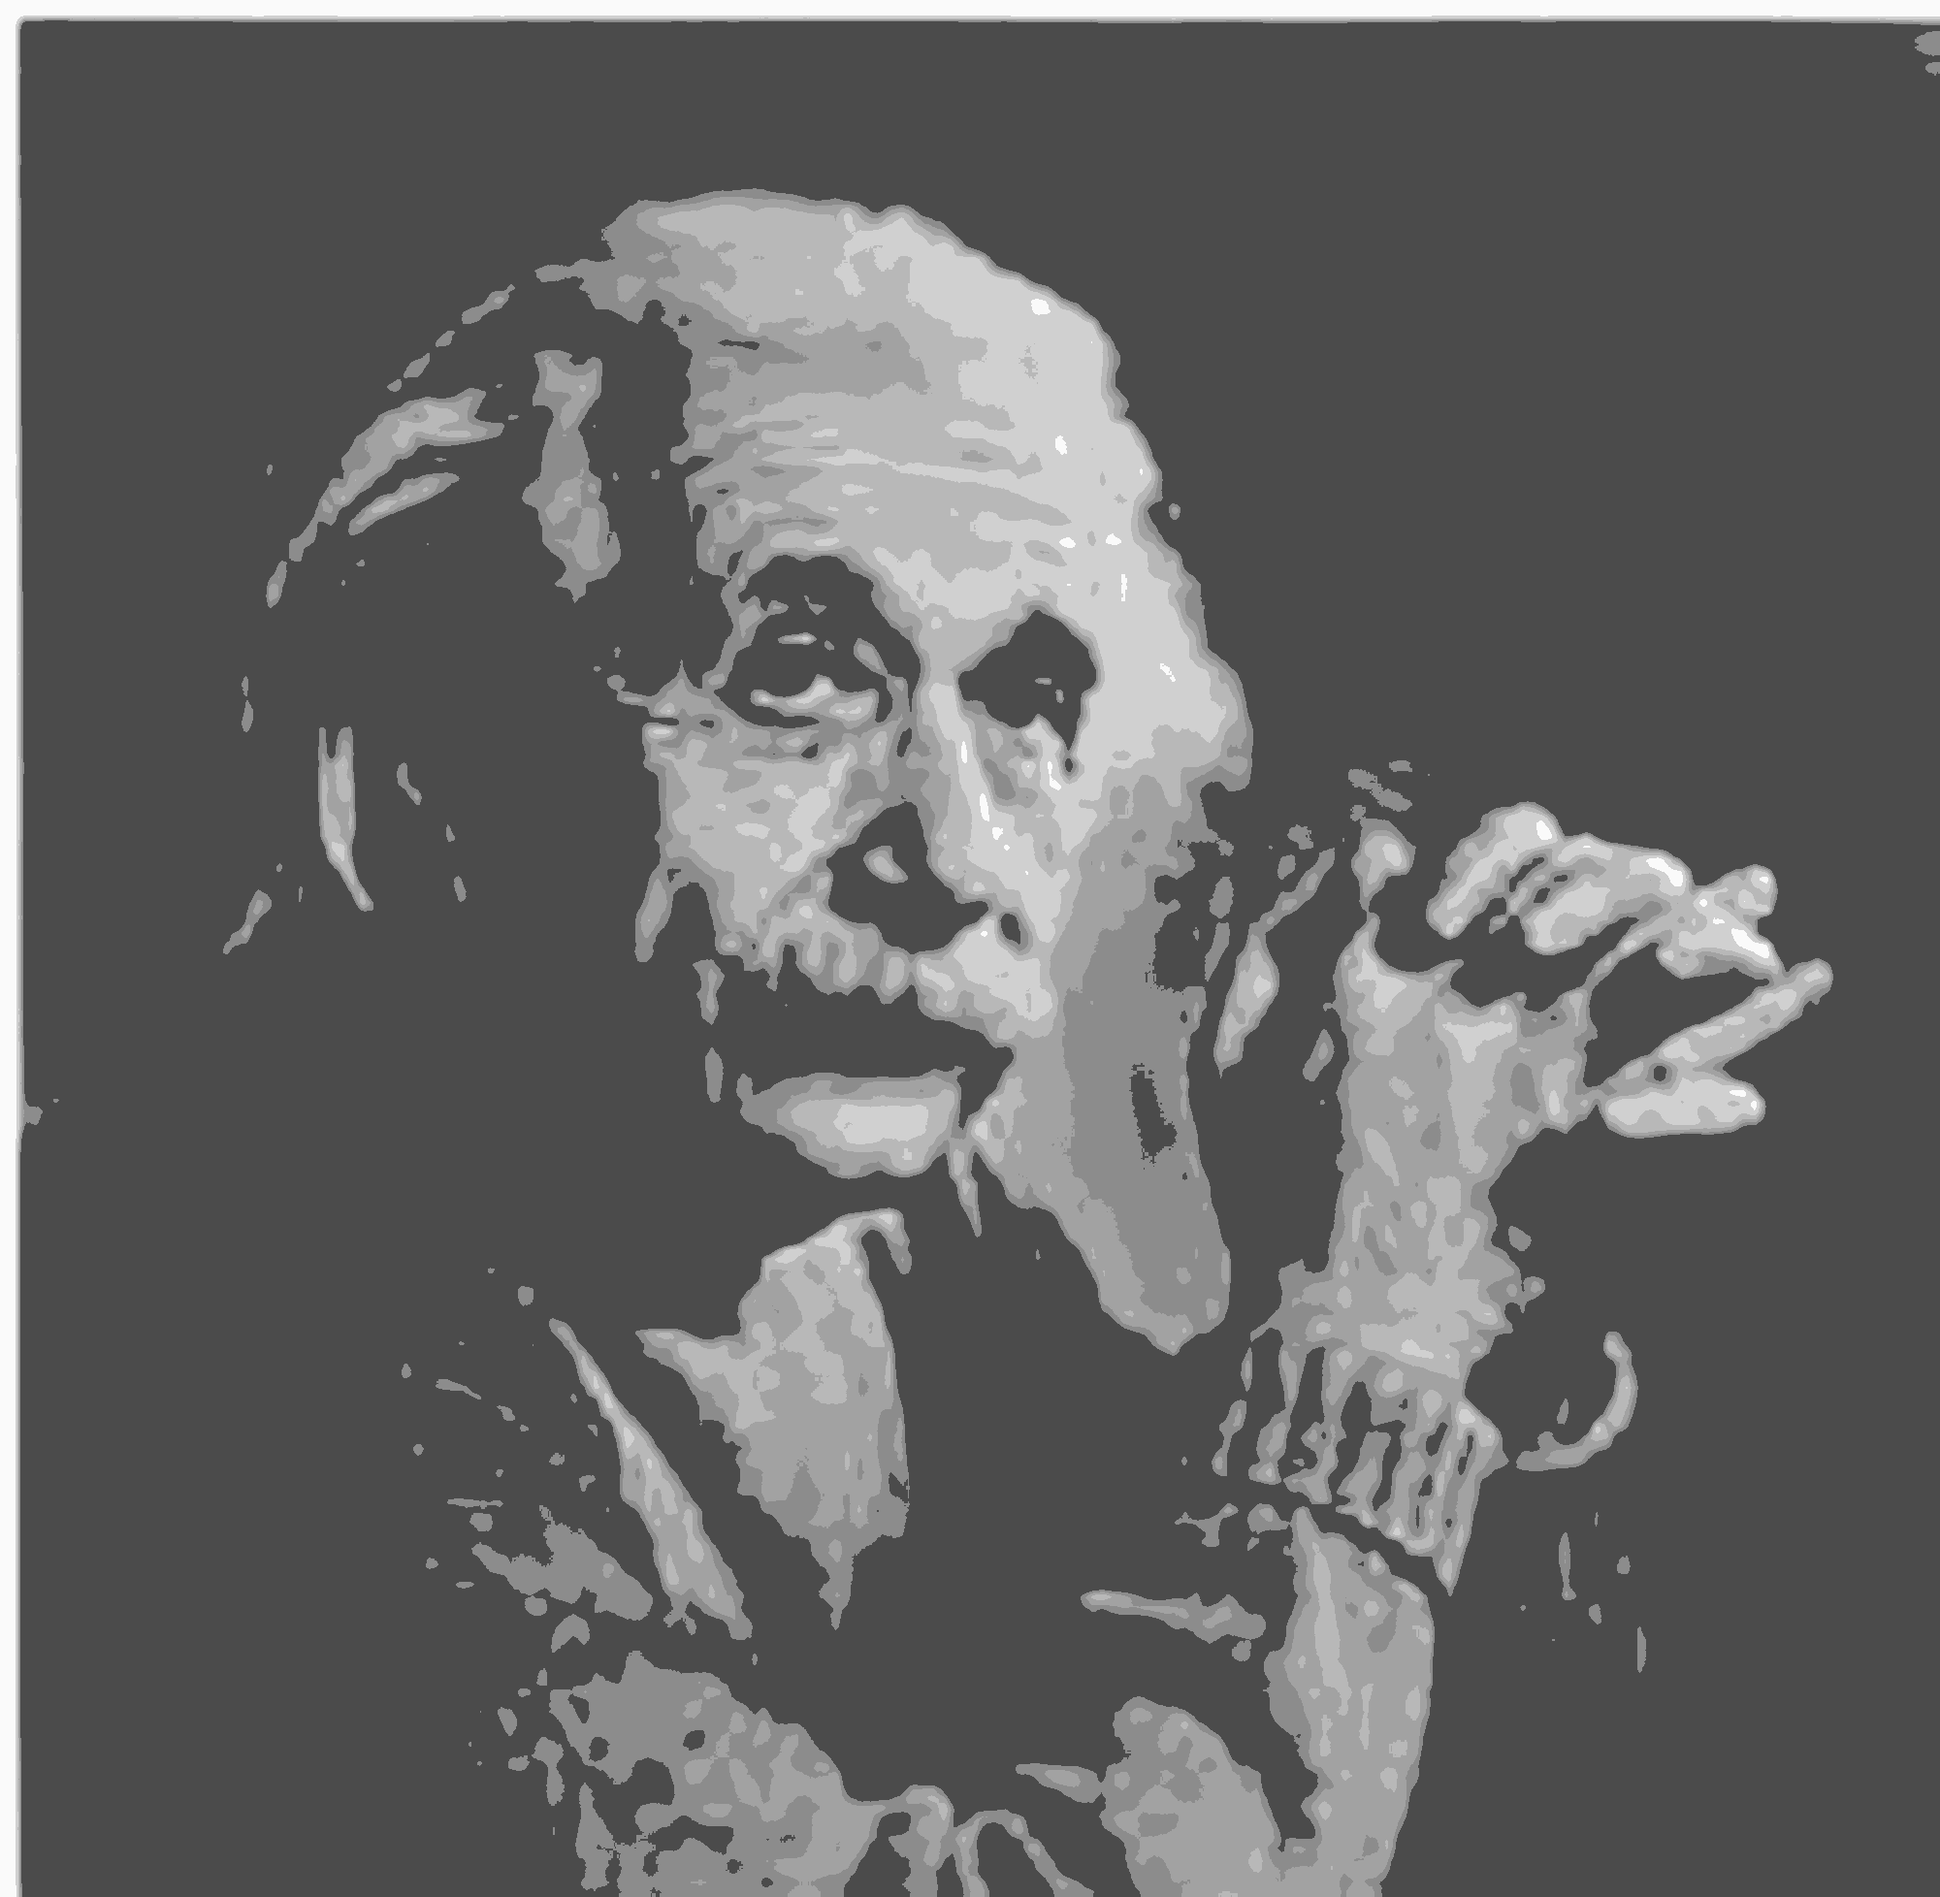
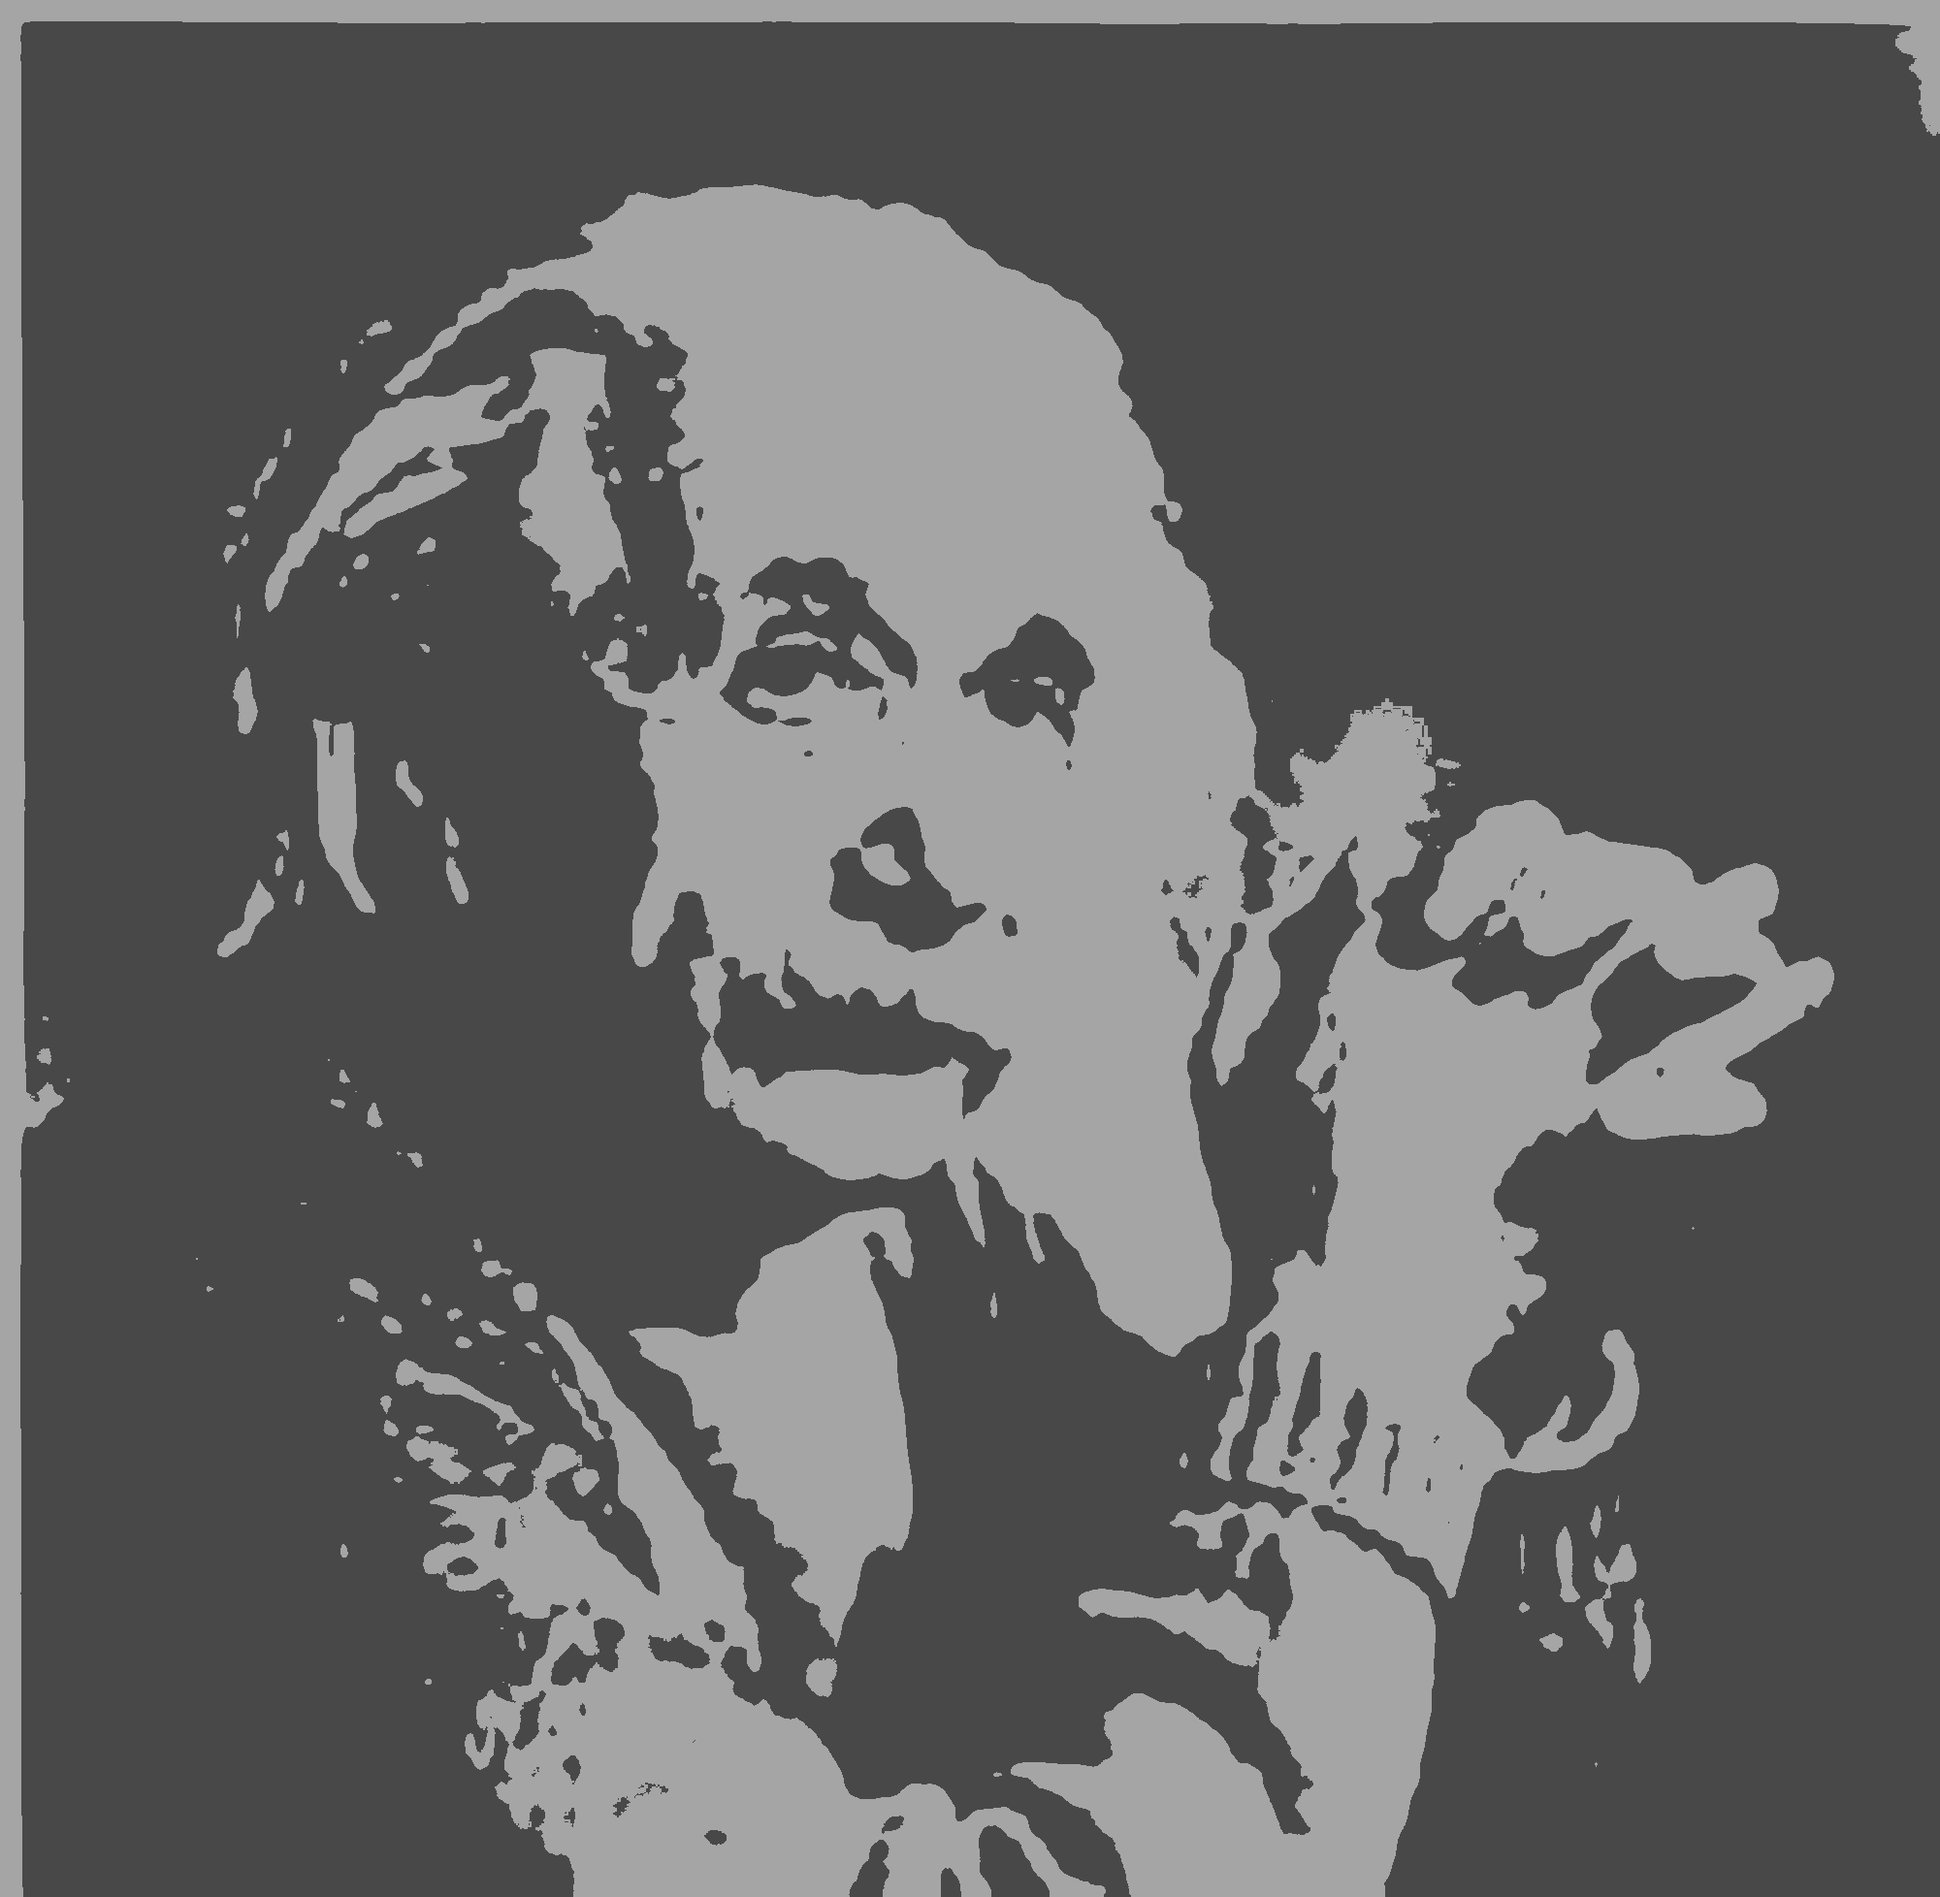
v2

diff --git a/HPC_ProjectTemplate/HPC_ProjectTemplate/Source.cpp b/HPC_ProjectTemplate/HPC_ProjectTemplate/Source.cpp
@@ -19,7 +19,7 @@ using namespace std;
 using namespace msclr::interop;
 int rnk;
 int sz;
-int K = 6;
+int K =2;
 int* inputImage(int* w, int* h, System::String^ imagePath) //put the size of image in w & h
 {
 	int* input;
@@ -198,7 +198,7 @@ int main()
 			{
 				if (mn > abs(Centroid[j] - pixels[i]))
 				{
-					mn = Centroid[j] - pixels[i];
+					mn = abs(Centroid[j] - pixels[i]);
 					id = j;
 				}
 			}
@@ -217,7 +217,7 @@ int main()
 			for (int i = 0; i < K; i++)
 			{
 				new_Centroid[i] = cluster_inner_sum[i] / (double)(cluster_size[i]);
-				new_Centroid[i] = min(255, max(new_Centroid[i], 0));
+			//	new_Centroid[i] = min(255, max(new_Centroid[i], 0));
 				if (abs(new_Centroid[i] - Centroid[i]) > eps)same = 0;
 				Centroid[i] = new_Centroid[i];
 			}

diff --git a/HPC_ProjectTemplate - Color version/HPC_ProjectTemplate/Source.cpp b/HPC_ProjectTemplate - Color version/HPC_ProjectTemplate/Source.cpp
@@ -183,7 +183,7 @@ int main()
 
 	System::String^ imagePath;
 	std::string img;
-	img = "..//Data//Input//test2.jpg";
+	img = "..//Data//Input//test3.jpg";
 
 	imagePath = marshal_as<System::String^>(img);
 	inputImage(&ImageWidth, &ImageHeight, imagePath,R,G,B);
